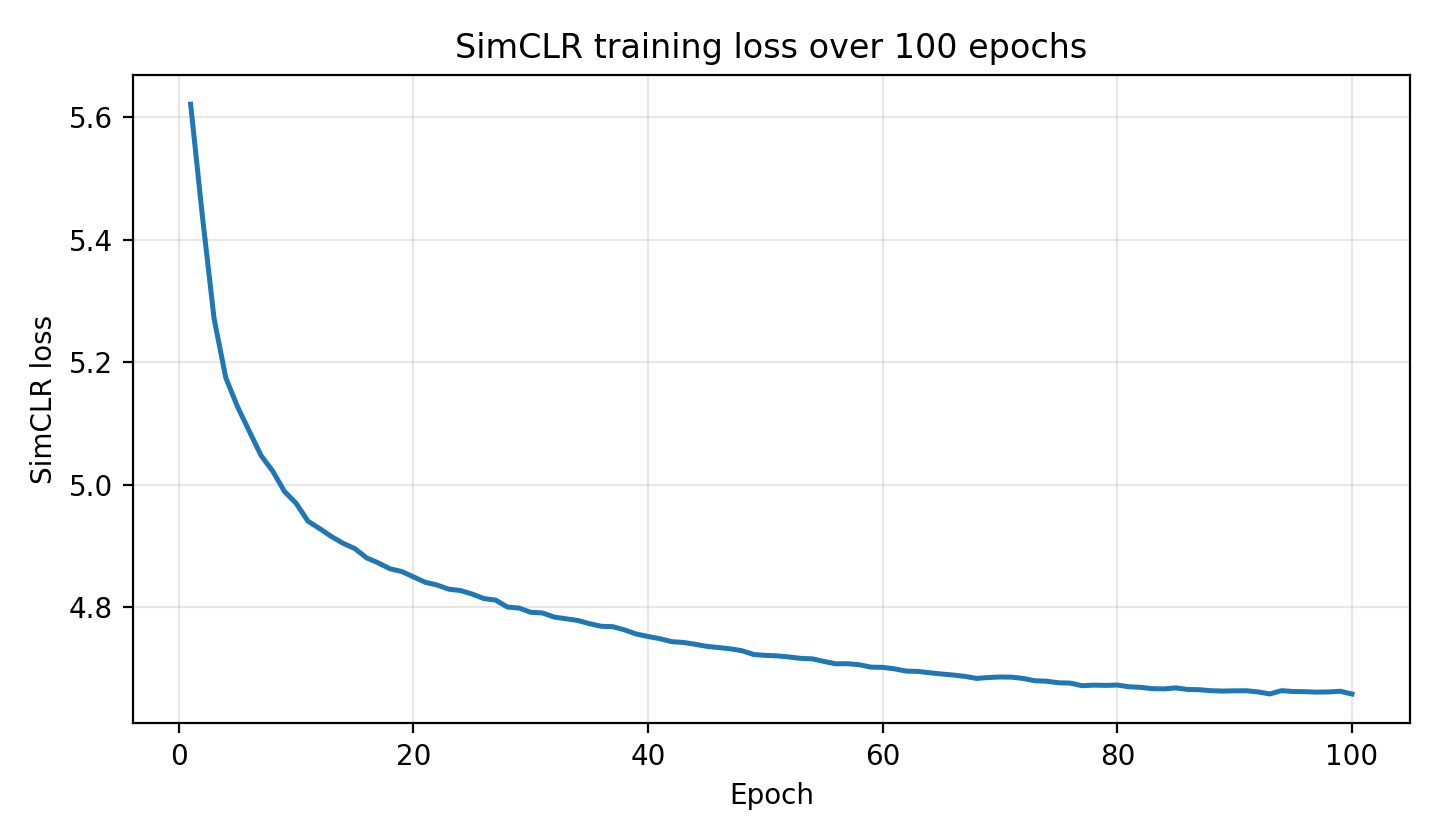
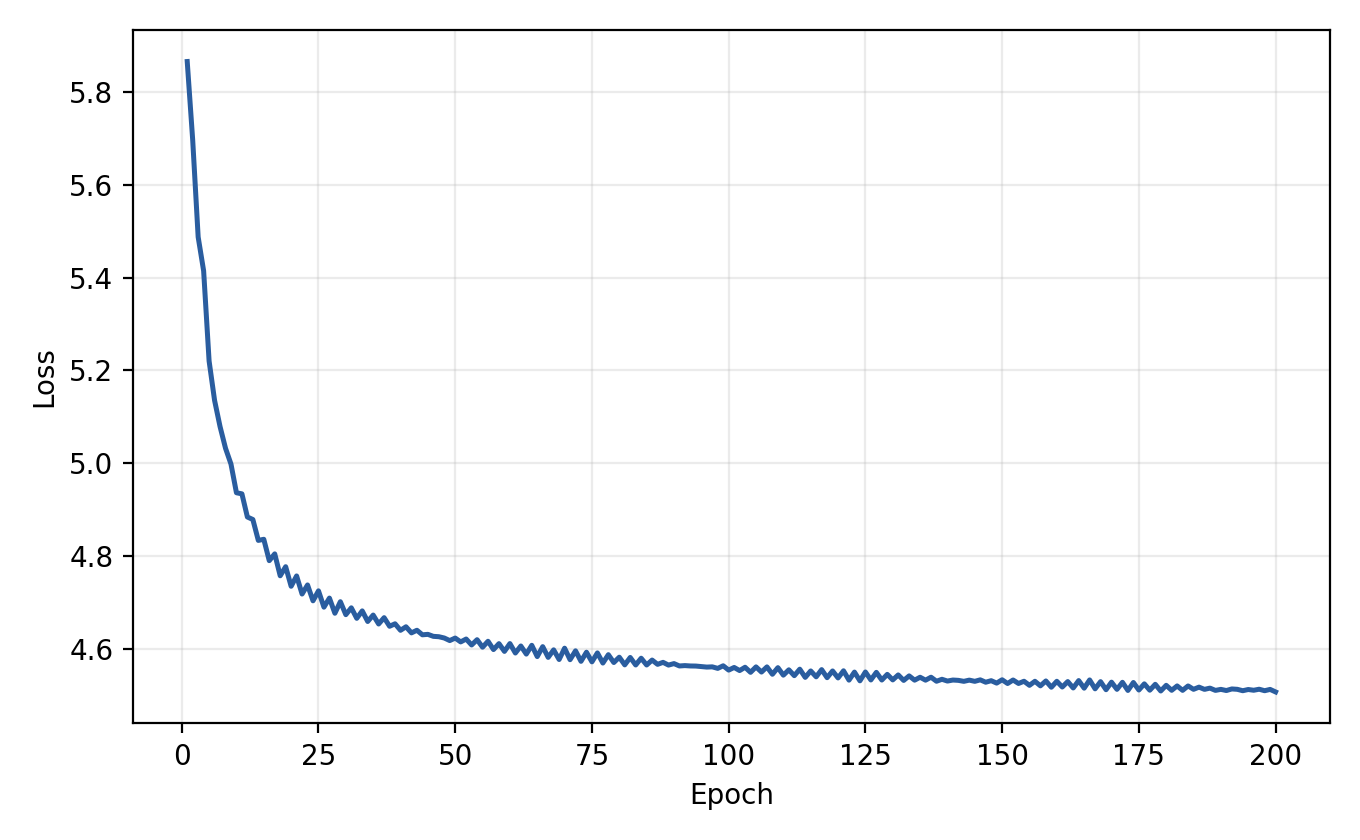
Update training results and evaluation metrics in report and logs; improve accuracy from 67.05% to 84.23%

diff --git a/report/report.tex b/report/report.tex
@@ -176,7 +176,7 @@ The project does not try to design a new backbone architecture. The backbone is 
 
 The adaptation strategy implemented in the project is ActMAD-style activation matching \citep{mirza2023actmad}. The model first records activation statistics on clean source data. At test time, it receives a corrupted batch and updates a limited subset of parameters so that the target activations become closer to the source activations. The current implementation adapts normalization parameters and keeps the rest of the model frozen. The classification head is then applied after this short adaptation.
 
-The self-supervised configuration schedules SimCLR training for 200 epochs. In the training log, the linear evaluation accuracy reached 67.05\%. On CIFAR-10-C severity 5, the final all-corruption evaluation improved the mean accuracy from 54.82\% without adaptation to 70.22\% after ActMAD TTT. This corresponds to an average gain of 15.40 percentage points. TTT helped on 14 of the 15 corruptions and hurt only on brightness.
+The self-supervised configuration schedules SimCLR training for 200 epochs. In the training log, the linear evaluation accuracy reached 84.23\%. On CIFAR-10-C severity 5, the final all-corruption evaluation improved the mean accuracy from 54.82\% without adaptation to 70.22\% after ActMAD TTT. This corresponds to an average gain of 15.40 percentage points. TTT helped on 14 of the 15 corruptions and hurt only on brightness.
 
 % =================================================
 \section{Scientific Background and Related Work}
@@ -222,7 +222,7 @@ This loss is not a classification loss. It does not know the CIFAR-10 class name
 
 Linear evaluation is a practical check of representation quality. After SimCLR pretraining, the backbone is frozen. A linear classifier is trained on top of the features using class labels. A high linear evaluation accuracy means that the frozen representation already separates classes well enough for a simple head. A low linear evaluation accuracy means that the representation is weak or not aligned with the classification task.
 
-This matters for TTT. Test-time adaptation cannot fully repair a poor representation. If the backbone does not extract useful features before adaptation, then matching activation statistics may not be enough. The recorded run reached 67.05\% linear evaluation accuracy. This is useful evidence that the encoder learned class-relevant features, but it is still below what a strong fully supervised CIFAR-10 model would usually obtain.
+This matters for TTT. Test-time adaptation cannot fully repair a poor representation. If the backbone does not extract useful features before adaptation, then matching activation statistics may not be enough. The recorded run reached 84.23\% linear evaluation accuracy. This is useful evidence that the encoder learned class-relevant features, but it is still below what a strong fully supervised CIFAR-10 model would usually obtain.
 
 \subsection{Test-Time Training and test-time adaptation}
 
@@ -294,7 +294,7 @@ The backbone checkpoint used for TTT is saved as:
 results/self_supervised/simclr_backbone.pt
 \end{lstlisting}
 
-Linear evaluation is not the final project goal, but it gives an important diagnostic. The final value is 67.05\%. This means the self-supervised representation contains useful class information. It also shows that the representation is not extremely strong. The later TTT result should be read with that limitation in mind.
+Linear evaluation is not the final project goal, but it gives an important diagnostic. The final value is 84.23\%. This means the self-supervised representation contains useful class information. It is still below strong fully supervised CIFAR-10 baselines, so the later TTT result should be read with that limitation in mind.
 
 \subsection{Source activation statistics}
 
@@ -445,11 +445,11 @@ The alias is:
 \begin{lstlisting}
 python run.py --task ssl --config configs/self_supervised.yaml
 \end{lstlisting}
-The loss log was printed once per epoch. It starts at 5.6214 and reaches 4.6586 at epoch 100. The configuration file requests 200 epochs, but the run has not finished yet. in epoch 9/200 the loss is 5.0647. yet to be completed...
+The loss log was printed once per epoch. It starts at 5.8654 and reaches 4.5078 at epoch 200. The 200-epoch run completed successfully.
 
 \subsection{Linear evaluation}
 
-After SimCLR pretraining, \texttt{run.py} calls the linear evaluation step. The backbone is frozen and a linear classifier is trained on top of the learned features. The classifier is then evaluated on CIFAR-10. The recorded linear evaluation accuracy was 67.05\%.
+After SimCLR pretraining, \texttt{run.py} calls the linear evaluation step. The backbone is frozen and a linear classifier is trained on top of the learned features. The classifier is then evaluated on CIFAR-10. The recorded linear evaluation accuracy was 84.23\%.
 
 This result shows that the representation learned class-relevant features. It also leaves room for improvement. A stronger supervised CIFAR-10 model would normally be expected to achieve substantially higher accuracy, so the robustness result should be interpreted together with the quality of the encoder.
 
@@ -509,10 +509,10 @@ The main numbers are summarized in Table~\ref{tab:final-summary}. The SSL values
 Experiment & Value\\
 \midrule
 Current self-supervised config epochs & 200\\
-Recorded loss log epochs & 100\\
-Initial SimCLR loss & 5.6214\\
-Final SimCLR loss & 4.6586\\
-Linear evaluation accuracy & 67.05\%\\
+Recorded loss log epochs & 200\\
+Initial SimCLR loss & 5.8654\\
+Final SimCLR loss & 4.5078\\
+Linear evaluation accuracy & 84.23\%\\
 All-corruption evaluation & 15 corruptions, severity 5\\
 Mean baseline accuracy & 54.82\%\\
 Mean ActMAD TTT accuracy & 70.22\%\\
@@ -579,25 +579,25 @@ The sweep shows a clear trend in this setting: more adaptation steps improve the
 
 \subsection{Training loss evolution}
 
-The saved SimCLR loss log decreased from 5.6214 at epoch 1 to 4.6586 at epoch 100. The curve in Figure~\ref{fig:training-loss} is built from the 100 losses printed in the available terminal log. The configuration requests 200 epochs, but the complete 200-epoch loss log has not yet completed...
+The 200-epoch curve in Figure~\ref{fig:training-loss} summarizes the loss trajectory from 5.8654 to 4.5078; the largest drop occurs early, and the curve flattens after roughly epoch 70.
 
 \begin{figure}[H]
 \centering
 \includegraphics[width=0.78\textwidth]{final_training_loss.pdf}
-\caption{SimCLR training loss over the recorded 100-epoch run.}
+\caption{SimCLR training loss over the recorded 200-epoch run.}
 \label{fig:training-loss}
 \end{figure}
 
-The decrease is strongest during the first epochs. After roughly epoch 70, the loss changes more slowly and oscillates around a lower value. This does not prove that the representation is optimal, but it shows that the contrastive objective was being optimized during the recorded run.
+
 
 \begin{table}[H]
 \centering
 \caption{Selected SimCLR loss values from the available training log.}
 \begin{tabular}{rrrrrrrr}
 \toprule
-Epoch & 1 & 10 & 25 & 50 & 75 & 90 & 100\\
+Epoch & 1 & 10 & 25 & 50 & 100 & 150 & 200\\
 \midrule
-Loss & 5.6214 & 4.9697 & 4.8217 & 4.7216 & 4.6768 & 4.6637 & 4.6586\\
+Loss & 5.8654 & 4.9367 & 4.7255 & 4.6238 & 4.5548 & 4.5340 & 4.5078\\
 \bottomrule
 \end{tabular}
 \end{table}
@@ -667,7 +667,7 @@ data/raw/cifar10c/CIFAR-10-C/
 \end{lstlisting}
 The reported average robustness numbers can be checked directly from the results directory.
 
-The terminal warnings observed during the provided run are not central to the scientific method. The MPS warning says that \texttt{pin\_memory=True} is not supported on MPS, so pinned memory is not used. This can be cleaned by setting \texttt{pin\_memory=False} when the device is MPS. The NumPy deprecation warning comes from dataset loading and does not change the reported accuracy values, but a stable dependency combination is safer for repeated experiments.
+The terminal warning observed during the provided run is not central to the scientific method. The MPS warning says that \texttt{pin\_memory=True} is not supported on MPS, so pinned memory is not used. This can be cleaned by setting \texttt{pin\_memory=False} when the device is MPS.
 
 % =================================================
 \section{Final Remarks and Future Work}